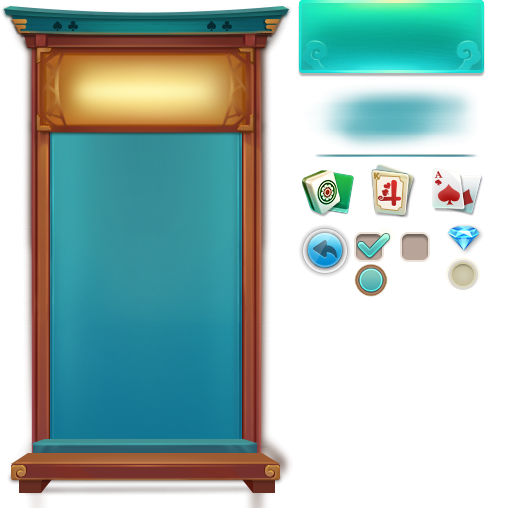
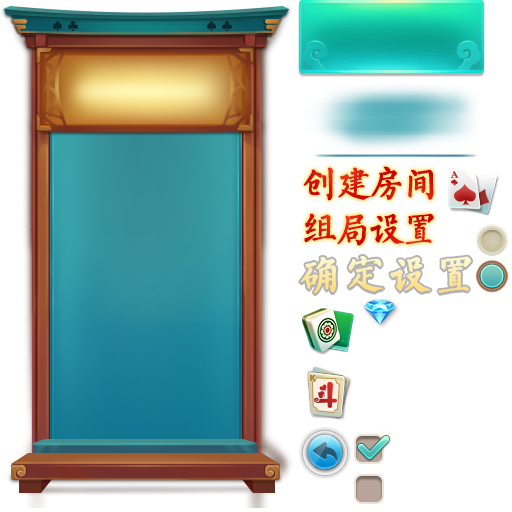
need merge

Changed region(s): [[0.5625, 0.3125, 1.0, 0.6875], [0.5625, 0.7188, 0.7812, 1.0]]

diff --git a/assets/Script/modules/lobby/views/NewRoomView.ts b/assets/Script/modules/lobby/views/NewRoomView.ts
@@ -1,4 +1,4 @@
-import { DataStore, Dialog, HTTP, LEnv, LobbyModuleInterface, Logger } from "../lcore/LCoreExports";
+import { DataStore, Dialog, HTTP, LEnv, LobbyModuleInterface, Logger, NewRoomViewPath } from "../lcore/LCoreExports";
 import { proto } from "../proto/protoLobby";
 import { DFRuleView, RunFastRuleView, ZJMJRuleView } from "../ruleviews/RuleViewsExports";
 import { LobbyError } from "./LobbyError";
@@ -14,11 +14,19 @@ interface RuleView {
     getRules: Function;
 }
 
+interface QuicklyCreateViewInterface {
+    saveConfig: Function;
+}
+
 /**
- * LoginView 登录界面
+ * NewRoomView 创建房间界面
  */
 @ccclass
 export class NewRoomView extends cc.Component {
+
+    public forReview: boolean = false;
+    public itemsJSON: { [key: string]: boolean | number };
+
     private view: fgui.GComponent;
     private win: fgui.Window;
 
@@ -27,14 +35,22 @@ export class NewRoomView extends cc.Component {
     private ruleViews: { [key: string]: RuleView } = {};
     private priceCfgs: { [key: string]: object };
 
-    private clubId: string = null;
+    private club: proto.club.IMsgClubInfo;
+
+    private path: NewRoomViewPath = NewRoomViewPath.Normal;
+
+    private quicklyCreateView: QuicklyCreateViewInterface;
 
     public getView(): fgui.GComponent {
         return this.view;
     }
 
-    public saveClubId(clubId: string): void {
-        this.clubId = clubId;
+    public showView(path: NewRoomViewPath, club?: proto.club.IMsgClubInfo, quicklyCreateView?: QuicklyCreateViewInterface): void {
+        this.path = path;
+        this.club = club;
+        this.quicklyCreateView = quicklyCreateView;
+        this.initView();
+        this.win.show();
     }
 
     public updatePrice(price: number): void {
@@ -59,9 +75,6 @@ export class NewRoomView extends cc.Component {
         win.modal = true;
 
         this.win = win;
-
-        this.initView();
-        this.win.show();
     }
 
     protected onDestroy(): void {
@@ -71,7 +84,6 @@ export class NewRoomView extends cc.Component {
         });
 
         this.eventTarget.emit("destroy");
-
         this.win.hide();
         this.win.dispose();
     }
@@ -89,12 +101,28 @@ export class NewRoomView extends cc.Component {
         list.on(fgui.Event.CLICK_ITEM, this.onListItemClicked, this);
 
         const createRoomBtn = this.view.getChild("createRoomButton");
-        if (createRoomBtn !== null) {
-            createRoomBtn.onClick(this.onCreateRoomBtnClick, this);
+        createRoomBtn.onClick(this.onCreateRoomBtnClick, this);
+
+        const saveConfigBtn = this.view.getChild("saveConfigBtn");
+        saveConfigBtn.onClick(this.onSaveConfigBtnClick, this);
+
+        const funcController = this.view.getController("func");
+
+        switch (this.path) {
+            case NewRoomViewPath.Normal:
+            case NewRoomViewPath.Form_Club:
+                funcController.selectedIndex = 0;
+                break;
+
+            case NewRoomViewPath.Form_Club_Setting:
+                funcController.selectedIndex = 1;
+                break;
+
+            default:
+
         }
 
         this.selectItem("btnZJMJ");
-
         this.loadRoomPrice();
     }
 
@@ -103,17 +131,37 @@ export class NewRoomView extends cc.Component {
         this.selectItem(name);
     }
 
-    private onCreateRoomBtnClick(): void {
+    private onSaveConfigBtnClick(): void {
+        //
         const list = this.view.getChild("gamelist").asList;
         const index = list.selectedIndex;
         const item = list.getChildAt(index);
         const name = item.packageItem.name;
         const ruleView = this.ruleViews[name];
+        if (ruleView !== undefined) {
+            const rules: string = <string>ruleView.getRules();
+            this.goSave(rules);
+        }
+    }
 
+    private onCreateRoomBtnClick(): void {
+
+        const list = this.view.getChild("gamelist").asList;
+        const index = list.selectedIndex;
+        const item = list.getChildAt(index);
+        const name = item.packageItem.name;
+        const ruleView = this.ruleViews[name];
         if (ruleView !== undefined) {
             const rules: string = <string>ruleView.getRules();
             this.createRoom(rules);
         }
+
+    }
+
+    private goSave(ruleJson: string): void {
+        //
+        this.quicklyCreateView.saveConfig(ruleJson);
+        this.destroy();
     }
 
     private createRoom(ruleJson: string): void {
@@ -121,8 +169,8 @@ export class NewRoomView extends cc.Component {
         const tk = DataStore.getString("token", "");
         let createRoomURL: string = "";
 
-        if (this.clubId !== null && this.clubId !== "") {
-            createRoomURL = `${LEnv.rootURL}${LEnv.createClubRoom}?&tk=${tk}&clubID=${this.clubId}`;
+        if (this.club !== null && this.club !== "") {
+            createRoomURL = `${LEnv.rootURL}${LEnv.createClubRoom}?&tk=${tk}&clubID=${this.club.baseInfo.clubID}`;
         } else {
             createRoomURL = `${LEnv.rootURL}${LEnv.createRoom}?&tk=${tk}`;
         }
@@ -180,6 +228,13 @@ export class NewRoomView extends cc.Component {
             const rv = this.ruleViews[k];
             rv.hide();
         });
+
+        if (this.path === NewRoomViewPath.Form_Club_Setting) {
+            this.forReview = true;
+            const roomConfigJSON = <{ [key: string]: boolean | number }>JSON.parse(this.club.baseInfo.clubID);
+            this.itemsJSON = roomConfigJSON;
+
+        }
 
         if (ruleView === undefined) {
             switch (name) {

diff --git a/assets/Script/modules/lobby/views/club/quicklyCreateRoom/QuicklyCreateRoomView.ts b/assets/Script/modules/lobby/views/club/quicklyCreateRoom/QuicklyCreateRoomView.ts
@@ -1,0 +1,78 @@
+import { Logger, NewRoomViewPath } from "../../../lcore/LCoreExports";
+import { proto } from "../../../proto/protoLobby";
+import { NewRoomView } from "../../NewRoomView";
+
+const { ccclass } = cc._decorator;
+
+/**
+ * 一键组局
+ */
+@ccclass
+export class QuicklyCreateRoomView extends cc.Component {
+
+    private view: fgui.GComponent;
+    private win: fgui.Window;
+    private eventTarget: cc.EventTarget;
+
+    private clubInfo: proto.club.IMsgClubInfo;
+
+    public show(clubInfo: proto.club.IMsgClubInfo): void {
+        this.clubInfo = clubInfo;
+        this.win.show();
+    }
+
+    public saveConfig(ruleJson: string): void {
+        //
+        Logger.debug("saveConfig ruleJson = ", ruleJson);
+    }
+
+    protected onLoad(): void {
+        //
+        this.eventTarget = new cc.EventTarget();
+
+        const view = fgui.UIPackage.createObject("lobby_club", "quicklyCreateRoom").asCom;
+        this.view = view;
+
+        const win = new fgui.Window();
+        win.contentPane = view;
+        win.modal = true;
+
+        this.win = win;
+
+        this.initView();
+    }
+
+    protected onDestroy(): void {
+
+        this.eventTarget.emit("destroy");
+        this.win.hide();
+        this.win.dispose();
+    }
+
+    private onCloseClick(): void {
+        this.destroy();
+    }
+
+    private initView(): void {
+        //
+
+        const closeBtn = this.view.getChild("closeBtn");
+        closeBtn.onClick(this.onCloseClick, this);
+
+        const editBtn = this.view.getChild("editBtn");
+        editBtn.onClick(this.onEditBtnClick, this);
+
+        //const gameConfig = this.view.getChild("text3");
+
+        const controller = this.view.getController("hasConfig");
+        controller.selectedIndex = 1;
+
+    }
+
+    private onEditBtnClick(): void {
+        const newRoomView = this.addComponent(NewRoomView);
+        newRoomView.showView(NewRoomViewPath.Form_Club_Setting, this.clubInfo, this);
+
+    }
+
+}

diff --git a/assets/Script/modules/lobby/views/club/ClubView.ts b/assets/Script/modules/lobby/views/club/ClubView.ts
@@ -1,4 +1,4 @@
-import { CommonFunction, DataStore, Dialog, HTTP, LEnv, LobbyModuleInterface, Logger } from "../../lcore/LCoreExports";
+import { CommonFunction, DataStore, Dialog, HTTP, LEnv, LobbyModuleInterface, Logger, NewRoomViewPath } from "../../lcore/LCoreExports";
 import { proto } from "../../proto/protoLobby";
 import { LobbyError } from "../LobbyError";
 import { NewRoomView } from "../NewRoomView";
@@ -10,6 +10,7 @@ import { CreateClubView } from "./CreateClubView";
 import { FilterGameView } from "./FilterGameView";
 import { JoinClubView } from "./JoinClubView";
 import { MemberManagerView } from "./memberManager/MemberManagerView";
+import { QuicklyCreateRoomView } from "./quicklyCreateRoom/QuicklyCreateRoomView";
 import { RoomManageView } from "./roomManage/RoomManageView";
 import { SettingPopupView } from "./settingPopup/SettingPopupView";
 
@@ -381,6 +382,11 @@ export class ClubView extends cc.Component {
 
     private onQuicklyCreateRoomClick(): void {
         //
+        // if (this.selectedClub.xxx === null || this.selectedClub.xxx === "") {
+        this.showQuickCreateRoomView();
+        // } else {
+        //this.quickCreateRoom();
+        // }
     }
 
     private onTipsBtnClick(): void {
@@ -390,7 +396,7 @@ export class ClubView extends cc.Component {
     private onCreateRoomBtnClick(): void {
 
         const view = this.addComponent(NewRoomView);
-        view.saveClubId(this.selectedClub.baseInfo.clubID);
+        view.showView(NewRoomViewPath.Form_Club, this.selectedClub);
 
     }
 
@@ -431,6 +437,16 @@ export class ClubView extends cc.Component {
         }
 
     }
+
+    private showQuickCreateRoomView(): void {
+        //
+        const view = this.addComponent(QuicklyCreateRoomView);
+        view.show(this.selectedClub);
+    }
+
+    // private quickCreateRoom(): void {
+    //     //
+    // }
 
     private refreshClubInfo(data: ByteBuffer): void {
         if (data !== null) {

diff --git a/assets/Script/modules/lobby/views/LobbyView.ts b/assets/Script/modules/lobby/views/LobbyView.ts
@@ -1,7 +1,7 @@
 import { WeiXinSDK } from "../chanelSdk/wxSdk/WeiXinSDkExports";
 import {
     CommonFunction,
-    DataStore, Dialog, GameModuleLaunchArgs, LEnv, LobbyModuleInterface, Logger
+    DataStore, Dialog, GameModuleLaunchArgs, LEnv, LobbyModuleInterface, Logger, NewRoomViewPath
 } from "../lcore/LCoreExports";
 import { LMsgCenter } from "../LMsgCenter";
 import { proto } from "../proto/protoLobby";
@@ -219,7 +219,8 @@ export class LobbyView extends cc.Component {
     }
 
     private onCreateRoom(): void {
-        this.addComponent(NewRoomView);
+        const newRoomView = this.addComponent(NewRoomView);
+        newRoomView.showView(NewRoomViewPath.Normal);
     }
 
     private onReturnGameBtnClick(): void {

diff --git a/assets/Script/modules/lobby/lcore/LDataType.ts b/assets/Script/modules/lobby/lcore/LDataType.ts
@@ -72,3 +72,9 @@ export interface GameModuleInterface extends cc.Component {
     resLoader: GResLoader;
     launch(args: GameModuleLaunchArgs): void;
 }
+
+export enum NewRoomViewPath {
+    Normal = 0,
+    Form_Club,
+    Form_Club_Setting
+}

diff --git a/assets/Script/modules/lobby/views/club/AppointManager/AppointManagerView.ts b/assets/Script/modules/lobby/views/club/AppointManager/AppointManagerView.ts
@@ -41,7 +41,6 @@ export class AppointManagerView extends cc.Component {
         win.modal = true;
 
         this.win = win;
-
         this.initView();
     }
 
